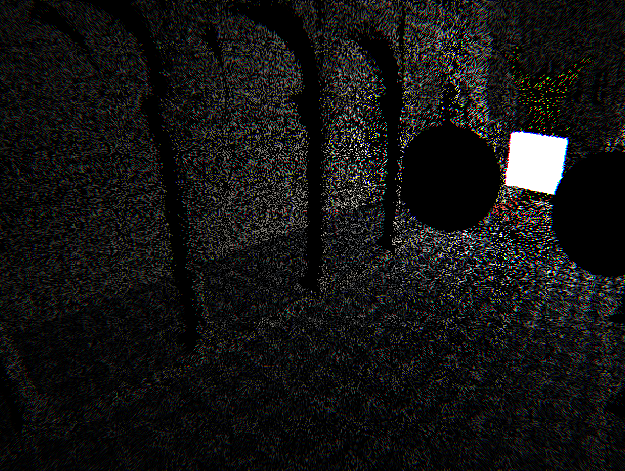
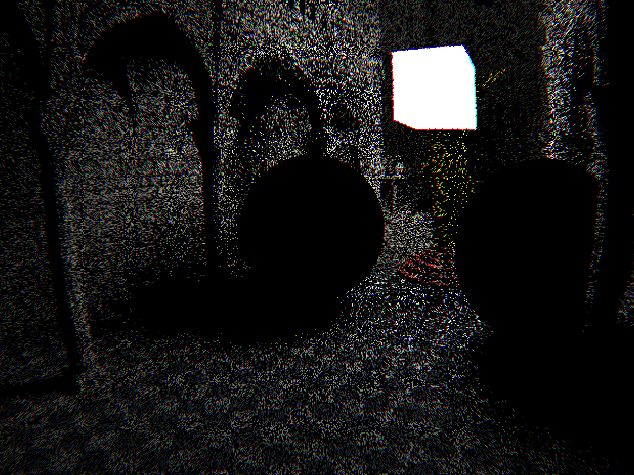
instance specific materials

diff --git a/src/kernels.h b/src/kernels.h
@@ -88,11 +88,14 @@ HYBRID inline Ray transformRay(const Ray& ray, const glm::mat4x4& transform)
     return Ray(newOrigin, newDir, ray.pixeli);
 }
 
-HYBRID inline uint getColliderMaterialID(const SceneBuffers& buffers, const HitInfo& hitInfo)
+HYBRID inline uint getColliderMaterialID(const SceneBuffers& buffers, const HitInfo& hitInfo, const Instance* instance)
 {
     switch (hitInfo.primitive_type)
     {
-        case TRIANGLE: return buffers.vertexData[hitInfo.primitive_id].material;
+        case TRIANGLE: 
+            if (instance->material_id == 0xffffffff)
+                return buffers.vertexData[hitInfo.primitive_id].material;
+            return instance->material_id;
         case SPHERE:   return buffers.spheres[hitInfo.primitive_id].material;
         case PLANE:    return buffers.planes[hitInfo.primitive_id].material;
     }
@@ -527,7 +530,7 @@ __global__ void kernel_shade(const SceneBuffers buffers, const HitInfoPacked* in
     // responsibility of the code dereferencing the pointer.
     const Instance* instance = buffers.instances + hitInfo.instance_id;
     const float3 intersectionPos = ray.origin + hitInfo.t * ray.direction;
-    const uint material_id = getColliderMaterialID(buffers, hitInfo);
+    const uint material_id = getColliderMaterialID(buffers, hitInfo, instance);
     Material material = buffers.materials[material_id];
     float3 originalNormal = getColliderNormal(buffers, hitInfo, intersectionPos);
 
@@ -582,7 +585,7 @@ __global__ void kernel_shade(const SceneBuffers buffers, const HitInfoPacked* in
         if (material.hasNormalMap)
         {
             float4 texColor = tex2D<float4>(material.normal_texture, uv.x, uv.y);
-            float3 texNormalT = (get3f(texColor)*2)-make_float3(1);
+            float3 texNormalT = (get3f(texColor)*2.0f)-make_float3(1.0f);
             float3 texNormal = make_float3(
                     dot(texNormalT, make_float3(triangleData.tangent.x, triangleData.bitangent.x, triangleData.normal.x)),
                     dot(texNormalT, make_float3(triangleData.tangent.y, triangleData.bitangent.y, triangleData.normal.y)),
@@ -644,7 +647,8 @@ __global__ void kernel_shade(const SceneBuffers buffers, const HitInfoPacked* in
             const TriangleLight& light = DTriangleLights[lightSource];
             const TriangleV& lightV = buffers.vertices[light.triangle_index];
             const TriangleD& lightD = buffers.vertexData[light.triangle_index];
-            const glm::mat4x4& lightTransform = buffers.instances[light.instance_index].transform;
+            const Instance& lightInstance = buffers.instances[light.instance_index];
+            const glm::mat4x4& lightTransform = lightInstance.transform;
 
             // transform the vertices to world space
             const float3 v0 = get3f(lightTransform * glm::vec4(lightV.v0.x, lightV.v0.y, lightV.v0.z, 1));
@@ -672,7 +676,8 @@ __global__ void kernel_shade(const SceneBuffers buffers, const HitInfoPacked* in
             // otherwise we are our own occluder or view the backface of the light
             if (NL > 0 && dot(-shadowDir, surfaceNormal) > 0 && LNL > 0)
             {
-                const float3& emission = buffers.materials[lightD.material].emission;
+                const uint material_id = lightInstance.material_id == 0xffffffff ? lightD.material : lightInstance.material_id;
+                const float3& emission = buffers.materials[material_id].emission;
                 // https://math.stackexchange.com/questions/128991/how-to-calculate-the-area-of-a-3d-triangle
                 float A = 0.5f * crLength;
 

diff --git a/src/sceneBuilder.h b/src/sceneBuilder.h
@@ -129,7 +129,14 @@ inline Scene getSibenikScene()
     cubeMat.glossy = 0.02;
     cubeMat.absorption = make_float3(0.1, 0.5, 0.8);
     cubeMat.emission = make_float3(10);
-    auto cubeMatId = scene.addMaterial(cubeMat);
+    auto cubeMatIdW = scene.addMaterial(cubeMat);
+
+    cubeMat.emission = make_float3(3, 0, 0);
+    auto cubeMatIdR = scene.addMaterial(cubeMat);
+    cubeMat.emission = make_float3(0, 3, 0);
+    auto cubeMatIdG = scene.addMaterial(cubeMat);
+    cubeMat.emission = make_float3(0, 0, 3);
+    auto cubeMatIdB = scene.addMaterial(cubeMat);
 
     Material sibenikMat = Material::DIFFUSE(make_float3(0.2));
     auto sibenikMatId = scene.addMaterial(sibenikMat);
@@ -173,11 +180,25 @@ inline Scene getSibenikScene()
     GameObject lucyObj(lucyModel);
     scene.addObject(lucyObj);
 
-    uint cubeModel = scene.addModel("cube.obj", 1, make_float3(0), make_float3(0), cubeMatId);
+    uint cubeModel = scene.addModel("cube.obj", 1.0f, make_float3(0), make_float3(0), cubeMatIdW);
     GameObject cubeObj(cubeModel);
-    cubeObj.position = make_float3(0);
+    cubeObj.position = make_float3(0, 3, 0);
     cubeObj.kind = 5;
+    cubeObj.materiald_id = cubeMatIdW;
     scene.addObject(cubeObj);
+
+    /*
+    MATERIAL_ID cubeIDs[3] = { cubeMatIdB, cubeMatIdG, cubeMatIdR };
+    for(uint i=0; i<10; i++)
+    {
+        float f = (float)i / 10.0f;
+        GameObject cubeObj(cubeModel);
+        cubeObj.position = make_float3(-10 + 25 * f, 6 + 2 * sinf(PI*2.0f*f), 0);
+        cubeObj.kind = 5;
+        cubeObj.materiald_id = cubeIDs[i%3];
+        scene.addObject(cubeObj);
+    }
+    */
 
    // scene.addPlane(Plane(make_float3(0,1,0),3, whiteId));
 

diff --git a/src/raytracer.h b/src/raytracer.h
@@ -77,12 +77,7 @@ float3 Raytracer::radiance(const Ray& ray, int iteration)
     HitInfo hitInfo = traverseTopLevel<false>(sceneBuffers, ray);
     if (!hitInfo.intersected()) return make_float3(0.2, 0.3, 0.6);
 
-    Instance* instance;
-
-    if (hitInfo.primitive_type == TRIANGLE)
-    {
-        instance = sceneBuffers.instances + hitInfo.instance_id;
-    }
+    const Instance* instance = sceneBuffers.instances + hitInfo.instance_id;
 
     float3 intersectionPos = ray.origin + hitInfo.t * ray.direction;
     float3 originalNormal = getColliderNormal(sceneBuffers, hitInfo, intersectionPos);
@@ -95,7 +90,7 @@ float3 Raytracer::radiance(const Ray& ray, int iteration)
     bool inside = dot(ray.direction, originalNormal) > 0;
     const float3 colliderNormal = inside ? -originalNormal : originalNormal;
 
-    const uint material_id = getColliderMaterialID(sceneBuffers, hitInfo);
+    const uint material_id = getColliderMaterialID(sceneBuffers, hitInfo, instance);
     Material material = sceneBuffers.materials[material_id];
     float3 diffuse_color = make_float3(0);
     float3 refract_color = make_float3(0);

diff --git a/src/pathtracer.h b/src/pathtracer.h
@@ -117,10 +117,12 @@ void Pathtracer::Init()
     std::vector<TriangleLight> lights;
     for(uint i=0; i<scene.objects.size(); i++)
     {
-        const Model& model = scene.models[scene.instances[i].model_id];
+        const Instance& instance = scene.instances[i];
+        const Model& model = scene.models[instance.model_id];
         for(uint t=model.triangleStart; t<model.triangleStart+model.nrTriangles; t++)
         {
-            const Material& mat = scene.materials[scene.allVertexData[t].material];
+            const uint mat_id = instance.material_id == 0xffffffff ? scene.allVertexData[t].material : instance.material_id;
+            const Material& mat = scene.materials[mat_id];
             if (fmaxcompf(mat.emission) < EPS) continue;
             lights.push_back(TriangleLight { t, i });
         }

diff --git a/src/types.h b/src/types.h
@@ -387,19 +387,22 @@ struct __align__(16) Instance
     uint model_id;
     glm::mat4 transform;
     glm::mat4 invTransform;
+    uint material_id;
 };
 
 struct GameObject
 {
     uint model_id;
     uint kind;
+    uint materiald_id;
     float3 position;
     float3 rotation;
     float3 scale;
 
     GameObject() {}
-    GameObject(uint model_id)
-        : model_id(model_id), position(make_float3(0)), rotation(make_float3(0)), scale(make_float3(1.0f)), kind(0) {}
+    GameObject(uint model_id, uint material_id = 0xffffffff)
+        : model_id(model_id), position(make_float3(0)), rotation(make_float3(0)), scale(make_float3(1.0f)),
+          kind(0), materiald_id(material_id) {}
 };
 
 struct __align__(16) TopLevelBVH

diff --git a/src/scene.h b/src/scene.h
@@ -18,7 +18,8 @@ inline Instance ConvertToInstance(const GameObject& obj)
     {
         obj.model_id,
         transform,
-        glm::inverse(transform)
+        glm::inverse(transform),
+        obj.materiald_id,
     };
 }
 
